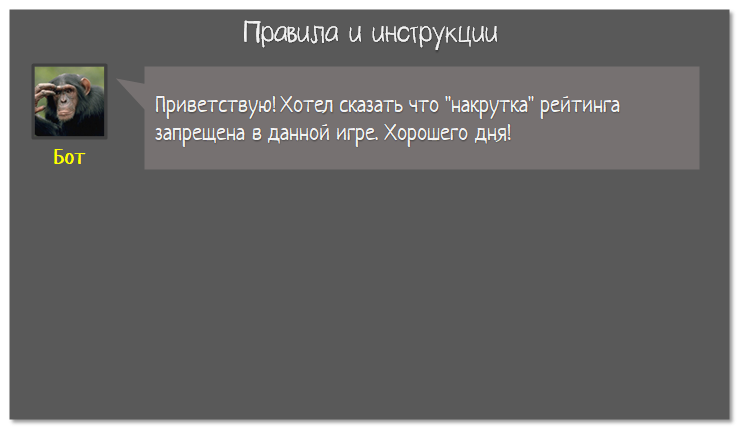
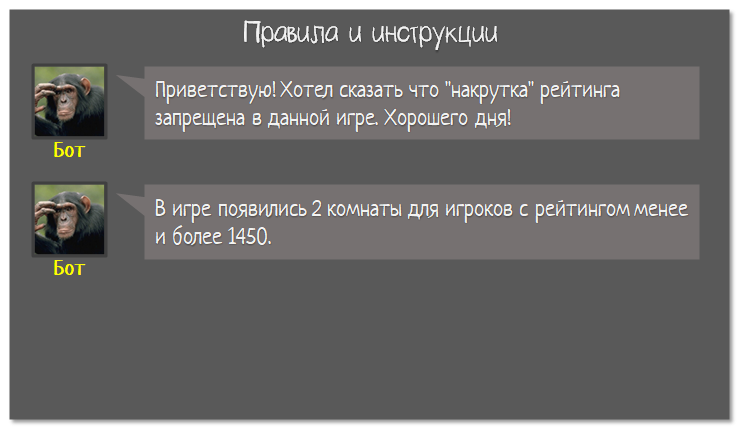
34534

Changed region(s): [[0.0311, 0.4233, 0.9635, 0.6349], [0.1554, 0.1814, 0.9635, 0.393], [0.0622, 0.3326, 0.1243, 0.393]]

diff --git a/index.js b/index.js
@@ -1,6 +1,6 @@
 var M_WIDTH=800, M_HEIGHT=450;
 var app, game_res, game, objects={}, state="",my_role="", game_tick=0, my_checkers=1, selected_checker=0, move=0, game_id=0, my_turn=0;
-var me_conf_play=0,opp_conf_play=0, any_dialog_active=0, min_move_amount=0, h_state=0, game_platform="",activity_on=1, hidden_state_start = 0;
+var me_conf_play=0,opp_conf_play=0, any_dialog_active=0, min_move_amount=0, h_state=0, game_platform="",activity_on=1, hidden_state_start = 0, room_name = 'states2';
 g_board=[];
 var players="", pending_player="",tm={};
 var my_data={opp_id : ''},opp_data={};
@@ -1602,14 +1602,14 @@ var keep_alive= function() {
 		//убираем из списка если прошло время с момента перехода в скрытое состояние		
 		let cur_ts = Date.now();	
 		let sec_passed = (cur_ts - hidden_state_start)/1000;		
-		if ( sec_passed > 100 )	firebase.database().ref("states/"+my_data.uid).remove();
+		if ( sec_passed > 100 )	firebase.database().ref(room_name+"/"+my_data.uid).remove();
 		return;		
 	}
 
 
 	firebase.database().ref("players/"+my_data.uid+"/tm").set(firebase.database.ServerValue.TIMESTAMP);
 	firebase.database().ref("inbox/"+my_data.uid).onDisconnect().remove();
-	firebase.database().ref("states/"+my_data.uid).onDisconnect().remove();
+	firebase.database().ref(room_name+"/"+my_data.uid).onDisconnect().remove();
 
 	set_state({});
 }
@@ -2759,9 +2759,15 @@ var cards_menu={
 
 		//включаем сколько игроков онлайн
 		objects.players_online.visible=true;
-
+		
+		//номер комнаты
+		if (my_data.rating > 1450)
+			room_name= 'states2';
+		else
+			room_name= 'states';
+		
 		//подписываемся на изменения состояний пользователей
-		firebase.database().ref("states") .on('value', (snapshot) => {cards_menu.players_list_updated(snapshot.val());});
+		firebase.database().ref(room_name) .on('value', (snapshot) => {cards_menu.players_list_updated(snapshot.val());});
 
 	},
 
@@ -2840,7 +2846,8 @@ var cards_menu={
 		for (let uid in players)
 			if (players[uid].hidden===0)
 				num++
-		objects.players_online.text='Игроков онлайн: ' + num;
+			
+		objects.players_online.text='Игроков онлайн: ' + num + '   ( комната: ' +room_name +' )';
 		
 		
 		//считаем сколько одиночных игроков и сколько столов
@@ -3262,7 +3269,7 @@ var cards_menu={
 		objects.players_online.visible=false;
 
 		//подписываемся на изменения состояний пользователей
-		firebase.database().ref("states").off();
+		firebase.database().ref(room_name).off();
 
 	},
 
@@ -3706,7 +3713,7 @@ function set_state(params) {
 	if (opp_data.uid!==undefined)
 		small_opp_id=opp_data.uid.substring(0,10);
 
-	firebase.database().ref("states/"+my_data.uid).set({state:state, name:my_data.name, rating : my_data.rating, hidden:h_state, opp_id : small_opp_id});
+	firebase.database().ref(room_name+"/"+my_data.uid).set({state:state, name:my_data.name, rating : my_data.rating, hidden:h_state, opp_id : small_opp_id});
 
 }
 
@@ -3865,7 +3872,7 @@ function init_game_env() {
 
 		//отключение от игры и удаление не нужного
 		firebase.database().ref("inbox/"+my_data.uid).onDisconnect().remove();
-		firebase.database().ref("states/"+my_data.uid).onDisconnect().remove();
+		firebase.database().ref(room_name+"/"+my_data.uid).onDisconnect().remove();
 
 		//это событие когда меняется видимость приложения
 		document.addEventListener("visibilitychange", vis_change);
